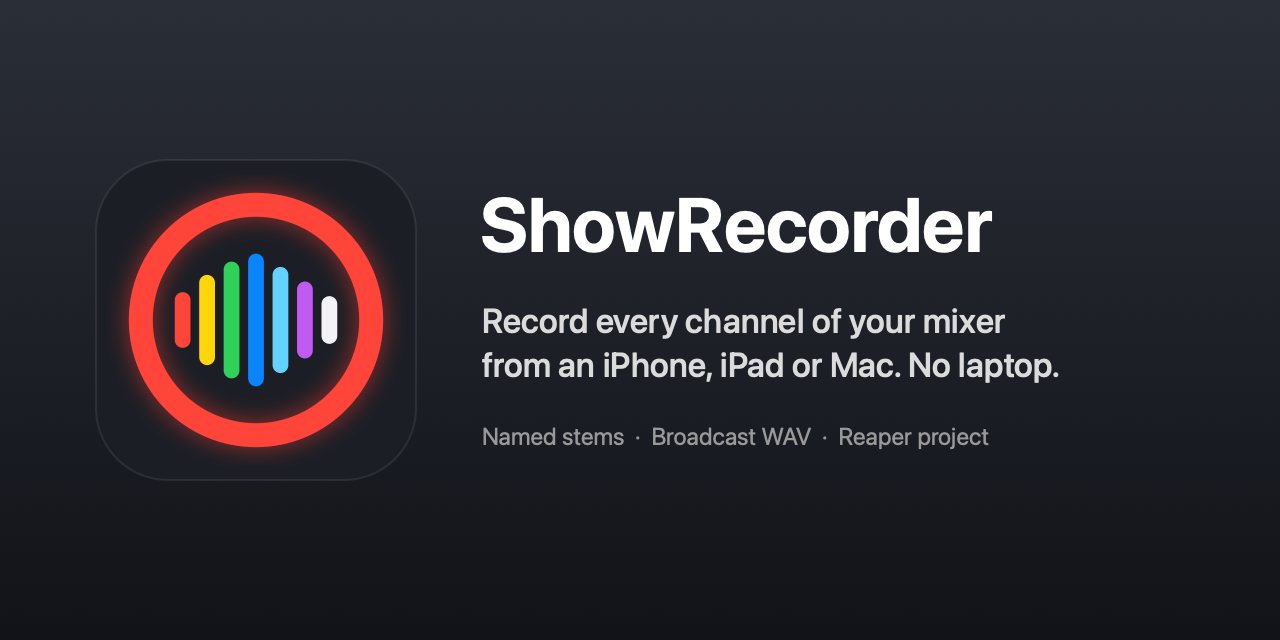
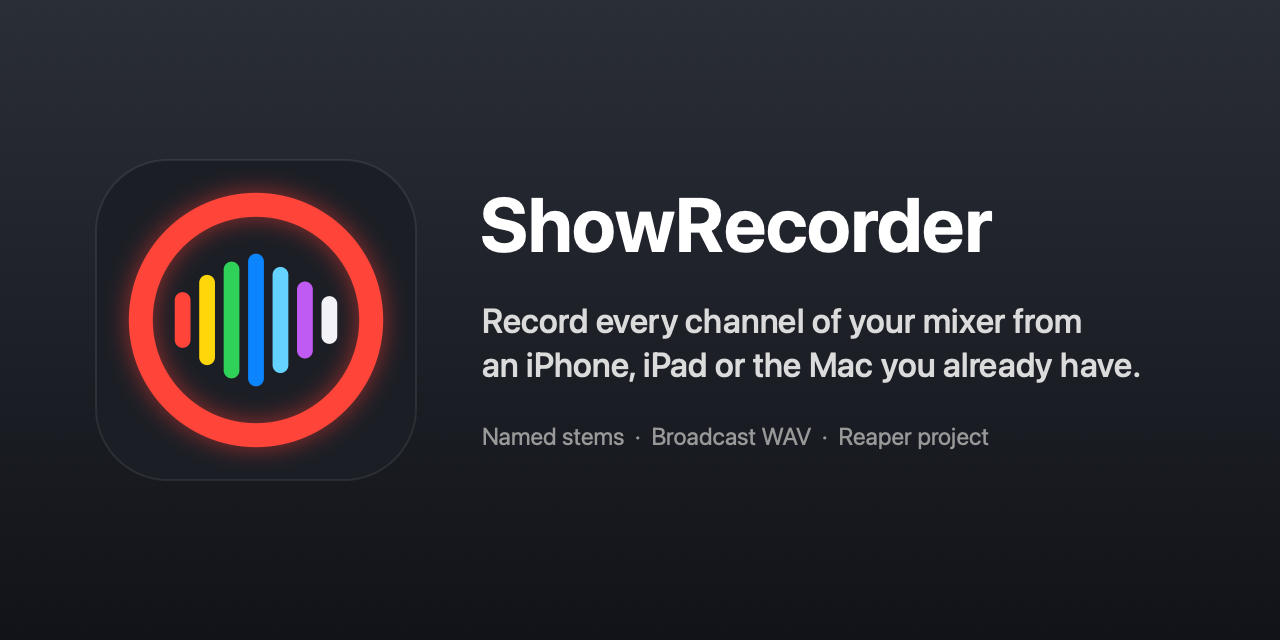
Position the Mac as the Mac you already have
"No laptop" contradicted the Mac version. The pitch is that no
dedicated recording laptop is needed: phone first, or the Mac mini in
the rack or the MacBook at front of house.

Assisted-by: Claude Code:claude-opus-5-5
Claude-Session: https://claude.ai/code/session_01QFiDDqzqxL6tA6Et9VyYfu

Changed region(s): [[0.375, 0.5312, 0.9062, 0.5938], [0.7812, 0.4688, 0.8438, 0.5312]]

diff --git a/design/render-artwork.swift b/design/render-artwork.swift
@@ -103,7 +103,7 @@ func text(_ string: String, _ font: NSFont, _ color: NSColor, _ origin: CGPoint)
     NSAttributedString(string: string, attributes: [.font: font, .foregroundColor: color]).draw(at: origin)
 }
 text("ShowRecorder", .systemFont(ofSize: 76, weight: .bold), .white, CGPoint(x: 480, y: 372))
-text("Record every channel of your mixer", .systemFont(ofSize: 34, weight: .medium), NSColor(white: 0.86, alpha: 1), CGPoint(x: 482, y: 300))
-text("from an iPhone, iPad or Mac. No laptop.", .systemFont(ofSize: 34, weight: .medium), NSColor(white: 0.86, alpha: 1), CGPoint(x: 482, y: 256))
+text("Record every channel of your mixer from", .systemFont(ofSize: 34, weight: .medium), NSColor(white: 0.86, alpha: 1), CGPoint(x: 482, y: 300))
+text("an iPhone, iPad or the Mac you already have.", .systemFont(ofSize: 34, weight: .medium), NSColor(white: 0.86, alpha: 1), CGPoint(x: 482, y: 256))
 text("Named stems  ·  Broadcast WAV  ·  Reaper project", .systemFont(ofSize: 24, weight: .regular), NSColor(white: 0.6, alpha: 1), CGPoint(x: 482, y: 190))
 save(card, "social-preview.png")

diff --git a/README.md b/README.md
@@ -2,9 +2,9 @@
 
 # ShowRecorder
 
-Record every channel of your mixer straight from an iPhone, iPad or Mac. There's no laptop to carry.
+Record every channel of your mixer from an iPhone or iPad, or the Mac you already have.
 
-Plug a multichannel USB mixer or audio interface into a USB-C iPhone through a powered hub, tap record, and you get a Show folder with one stem per channel. On mixers ShowRecorder knows how to talk to, each track is also named and colored from the mixer itself, so channel 7 arrives as `07 Lead Vocal.wav`, not `Input 7`. Behringer X-Air (XR18) and Midas MR18 are supported first; more mixers will follow.
+You don't need a dedicated recording laptop. Plug a multichannel USB mixer or audio interface into a USB-C iPhone through a powered hub, or into the Mac mini in your rack or the MacBook at front of house, tap record, and you get a Show folder with one stem per channel. On mixers ShowRecorder knows how to talk to, each track is also named and colored from the mixer itself, so channel 7 arrives as `07 Lead Vocal.wav`, not `Input 7`. Behringer X-Air (XR18) and Midas MR18 are supported first; more mixers will follow.
 
 > **Status: in development.** It isn't on the App Store yet. The recording core works and is tested; the remaining MVP work is tracked in [issue #1](https://github.com/ericdahl-dev/ShowRecorder/issues/1) and the issues linked from it.
 
